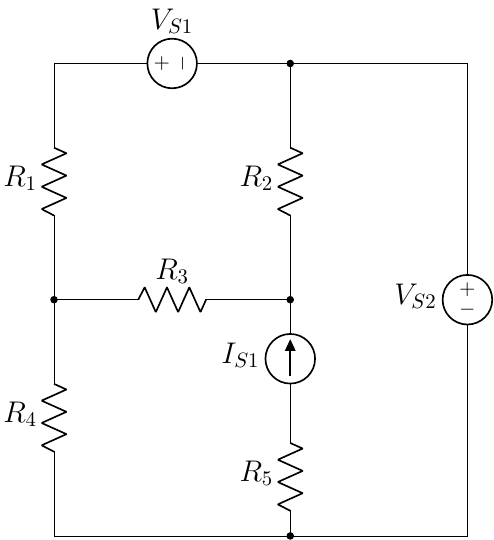
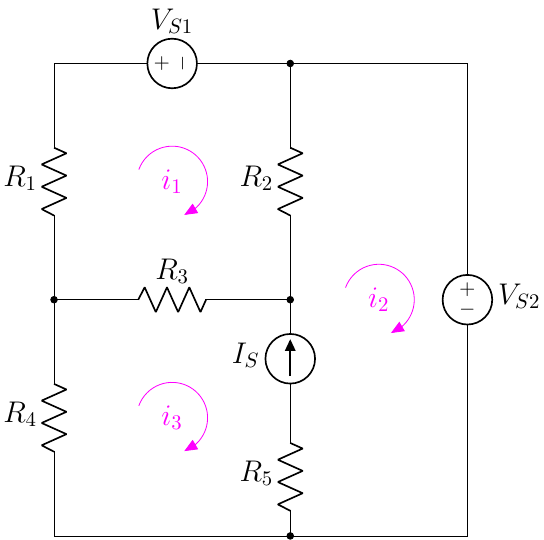
edit 3.444

diff --git a/1.6 Supermesh/3.5 Super Mesh Analysis/3.444(new).tex b/1.6 Supermesh/3.5 Super Mesh Analysis/3.444(new).tex
@@ -6,10 +6,10 @@
                 to[R,l=\rname{1}] ++(0,4);
 
     \draw(4,0)  to[R,l=\rname{5}] ++(0,2)
-                to[I,l=\isname{1},-*] ++(0,2)
+                to[I,l=\isname{},-*] ++(0,2)
                 to[R,l=\rname{2}] ++(0,4);
 
-    \draw(7,0)  to[V,l=\vsname{2}] ++(0,8);
+    \draw(7,0)  to[V,l_=\vsname{2}] ++(0,8);
 
     %%% horizontal %%%
     \draw(0,0)  to[short,-*] ++(4,0)
@@ -21,6 +21,8 @@
                 to[V,l_=\vsname{1}] ++(-4,0);
 
     %%% find %%%
-
+    \loopc{2}{6}{1};
+    \loopc{5.5}{4}{2};
+    \loopc{2}{2}{3};
 \end{circuitikz}
 \end{document}
